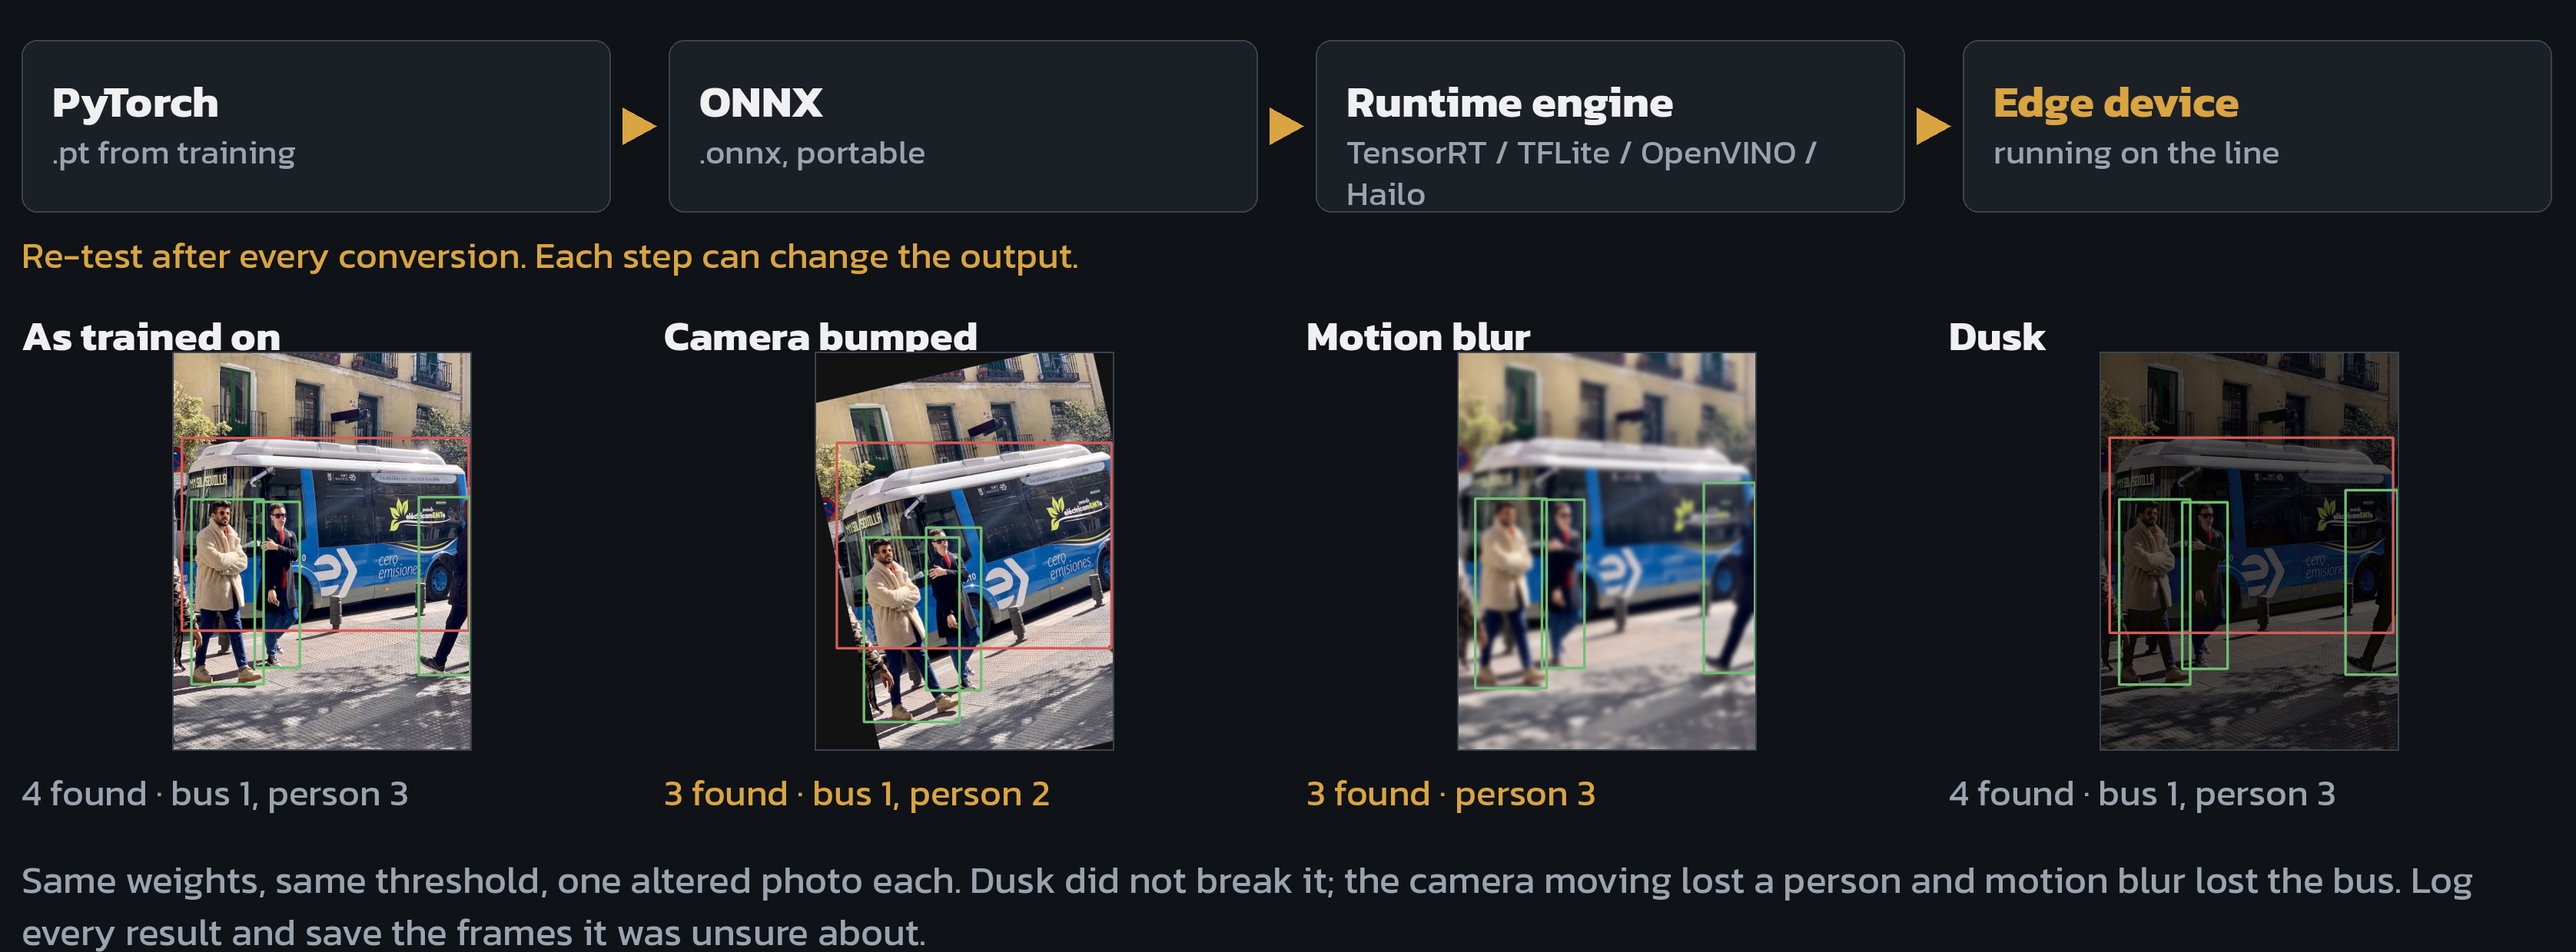
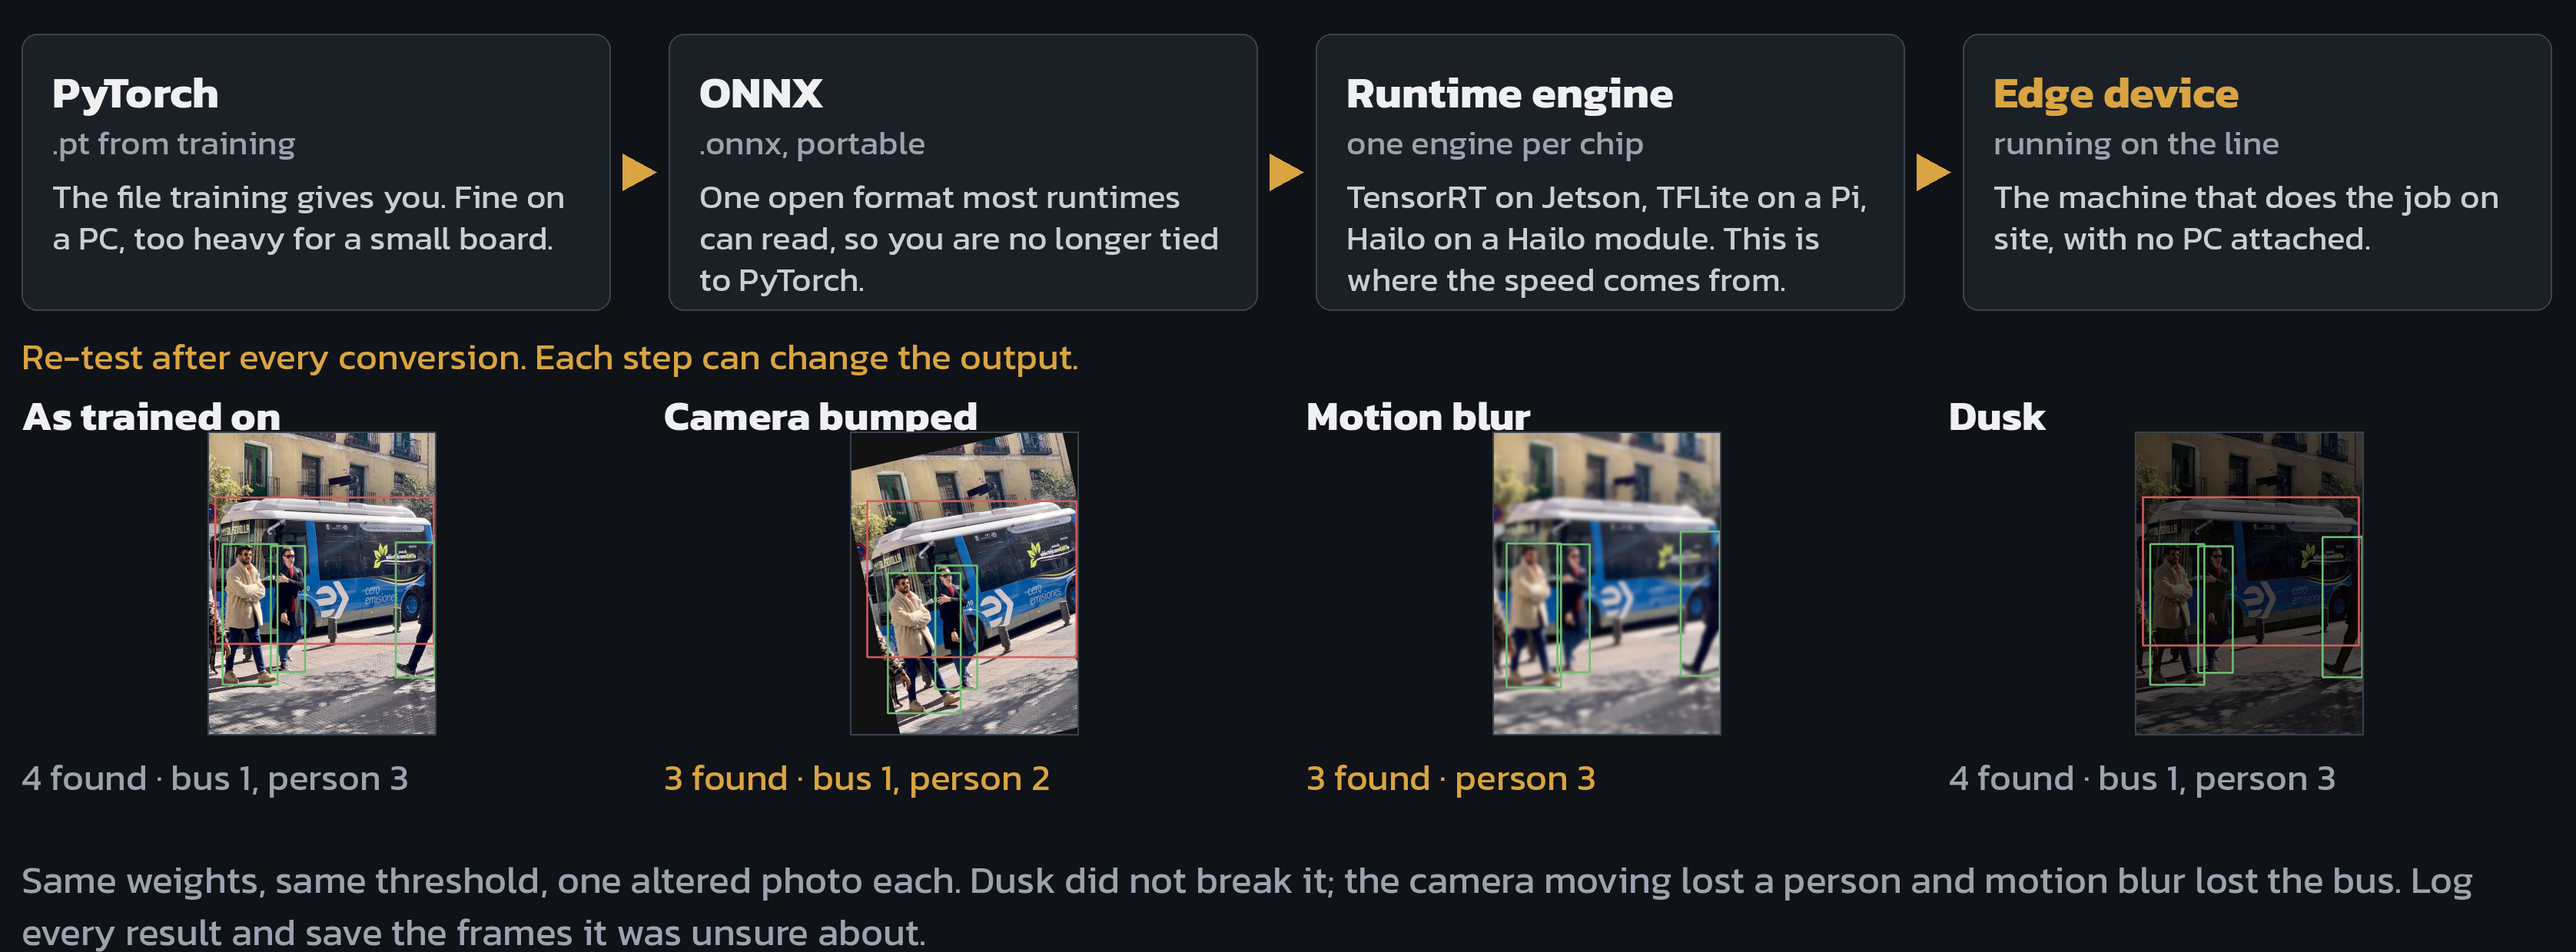
Chapter 2 page 6: say what each step of the conversion chain is actually for
The chain read PyTorch -> ONNX -> Runtime engine -> Edge device with nothing
but a file extension under each box. Anon's point: a learner sees four names
and no reason for any of them, and the runtime engine step in particular is
where people are lost - they do not know that the engine is chosen by the chip.

Each box now carries one plain sentence:

  PyTorch         the file training gives you; fine on a PC, too heavy for a
                  small board
  ONNX            one open format most runtimes can read, so you are no longer
                  tied to PyTorch
  Runtime engine  TensorRT on Jetson, TFLite on a Pi, Hailo on a Hailo module;
                  this is where the speed comes from
  Edge device     the machine that does the job on site, with no PC attached

The engine names moved out of the token line and into the explanation, because
which engine you use depends on the hardware and that is the part worth saying
out loud rather than listing.

Boxes grew 112 -> 180 tall to hold it; the four field photos below shrank to
196 to pay for it, and everything still clears the canvas.

Claude-Session: https://claude.ai/code/session_01L2BgT3gVYruUssRpoAW2J5

diff --git a/slide_assets/src/ch2_ai.py b/slide_assets/src/ch2_ai.py
@@ -365,10 +365,24 @@ def fig_errors(det):
 
 
 # ==========================================================================
-CHAIN = [("PyTorch", ".pt from training"),
-         ("ONNX", ".onnx, portable"),
-         ("Runtime engine", "TensorRT / TFLite / OpenVINO / Hailo"),
-         ("Edge device", "running on the line")]
+# name, the token a learner will actually see, and a plain sentence saying
+# what that step is for. The engine names sit in the explanation rather than
+# the token line, because which engine you use depends on the chip and that is
+# the part people get wrong.
+CHAIN = [
+    ("PyTorch", ".pt from training",
+     "The file training gives you. Fine on a PC, too heavy for a small "
+     "board."),
+    ("ONNX", ".onnx, portable",
+     "One open format most runtimes can read, so you are no longer tied to "
+     "PyTorch."),
+    ("Runtime engine", "one engine per chip",
+     "TensorRT on Jetson, TFLite on a Pi, Hailo on a Hailo module. This is "
+     "where the speed comes from."),
+    ("Edge device", "running on the line",
+     "The machine that does the job on site, with no PC attached."),
+]
+EXPL = (200, 206, 214)
 
 
 def fig_field(det):
@@ -396,16 +410,20 @@ def fig_field(det):
     PAD, gap, arrow = 14, 12, 26
     n = len(CHAIN)
     bw = (W - 2 * PAD - (n - 1) * (gap + arrow)) // n
-    bh, top = 112, 26
+    bh, top = 180, 22
     x = PAD
-    for i, (name, sub) in enumerate(CHAIN):
+    for i, (name, sub, expl) in enumerate(CHAIN):
         d.rounded_rectangle([x * S, top * S, (x + bw) * S, (top + bh) * S],
                             radius=10 * S, fill=PANEL, outline=EDGE, width=2)
-        d.text(((x + 20) * S, (top + 18) * S), name, font=f_c,
+        d.text(((x + 20) * S, (top + 16) * S), name, font=f_c,
                fill=GOLD if i == n - 1 else WHITE)
-        yy = top + 56
+        yy = top + 54
         for seg_ in wrap(d, sub, f_cs, (bw - 40) * S):
             d.text(((x + 20) * S, yy * S), seg_, font=f_cs, fill=MUTED)
+            yy += 27
+        yy += 8
+        for seg_ in wrap(d, expl, f_cs, (bw - 40) * S):
+            d.text(((x + 20) * S, yy * S), seg_, font=f_cs, fill=EXPL)
             yy += 27
         if i < n - 1:
             ax = (x + bw + gap // 2 + 2) * S
@@ -413,14 +431,14 @@ def fig_field(det):
             d.polygon([(ax, ay - 12 * S), (ax + 22 * S, ay),
                        (ax, ay + 12 * S)], fill=GOLD)
         x += bw + gap + arrow
-    d.text((PAD * S, (top + bh + 10) * S),
+    d.text((PAD * S, (top + bh + 12) * S),
            "Re-test after every conversion. Each step can change the output.",
            font=f_s, fill=GOLD)
 
     shots = [(base, "As trained on"), (moved, "Camera bumped"),
              (blur, "Motion blur"), (dusk, "Dusk")]
     cw2 = (W - 2 * PAD - 3 * 26) // 4
-    ytop, chh = 230, 258
+    ytop, chh = 282, 196
     x = PAD
     results = []
     for im, lab in shots:
